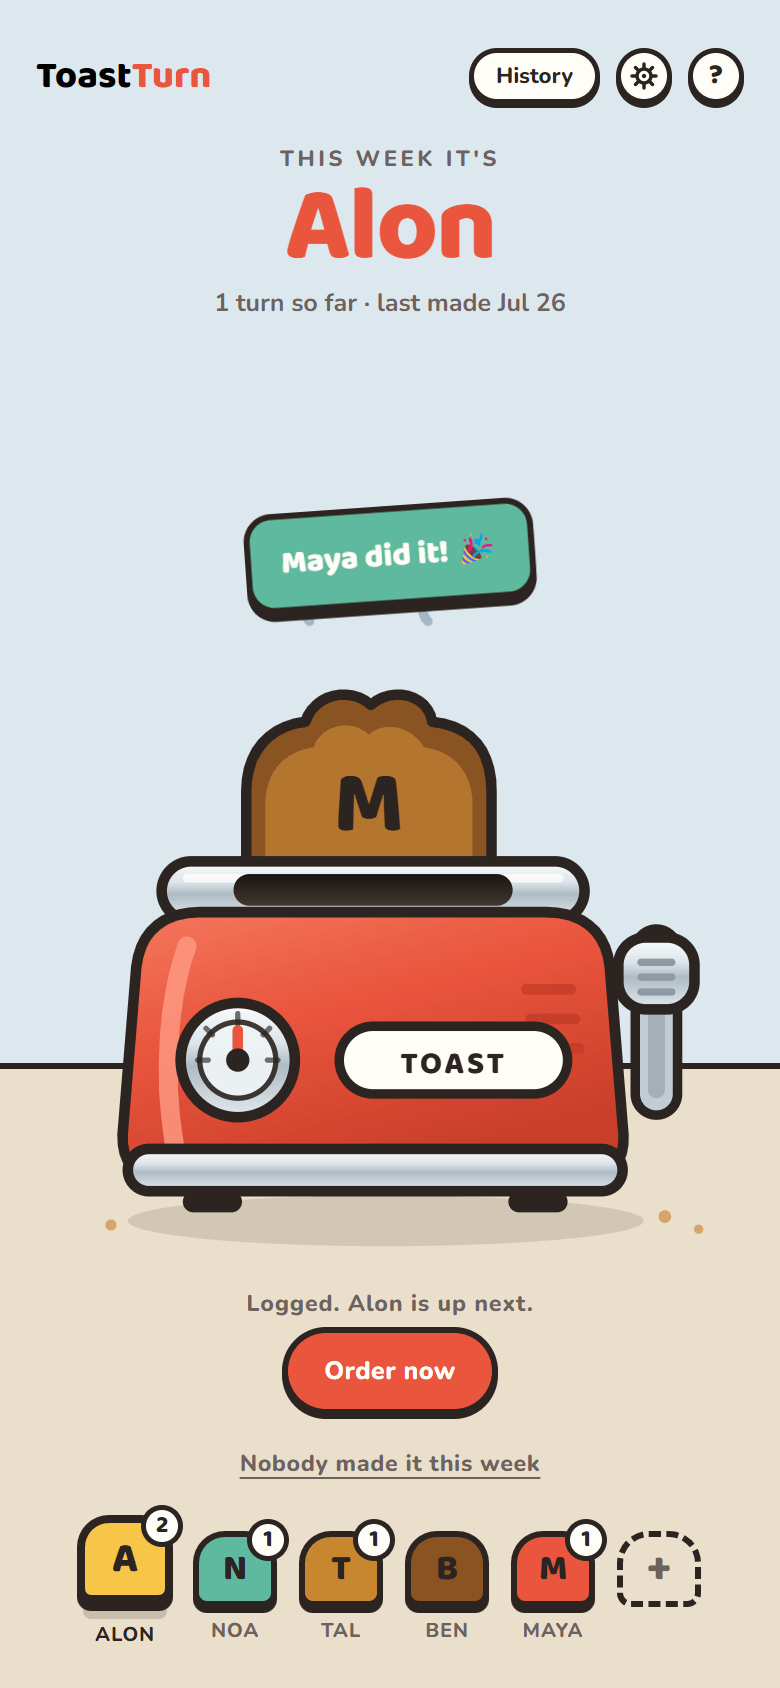
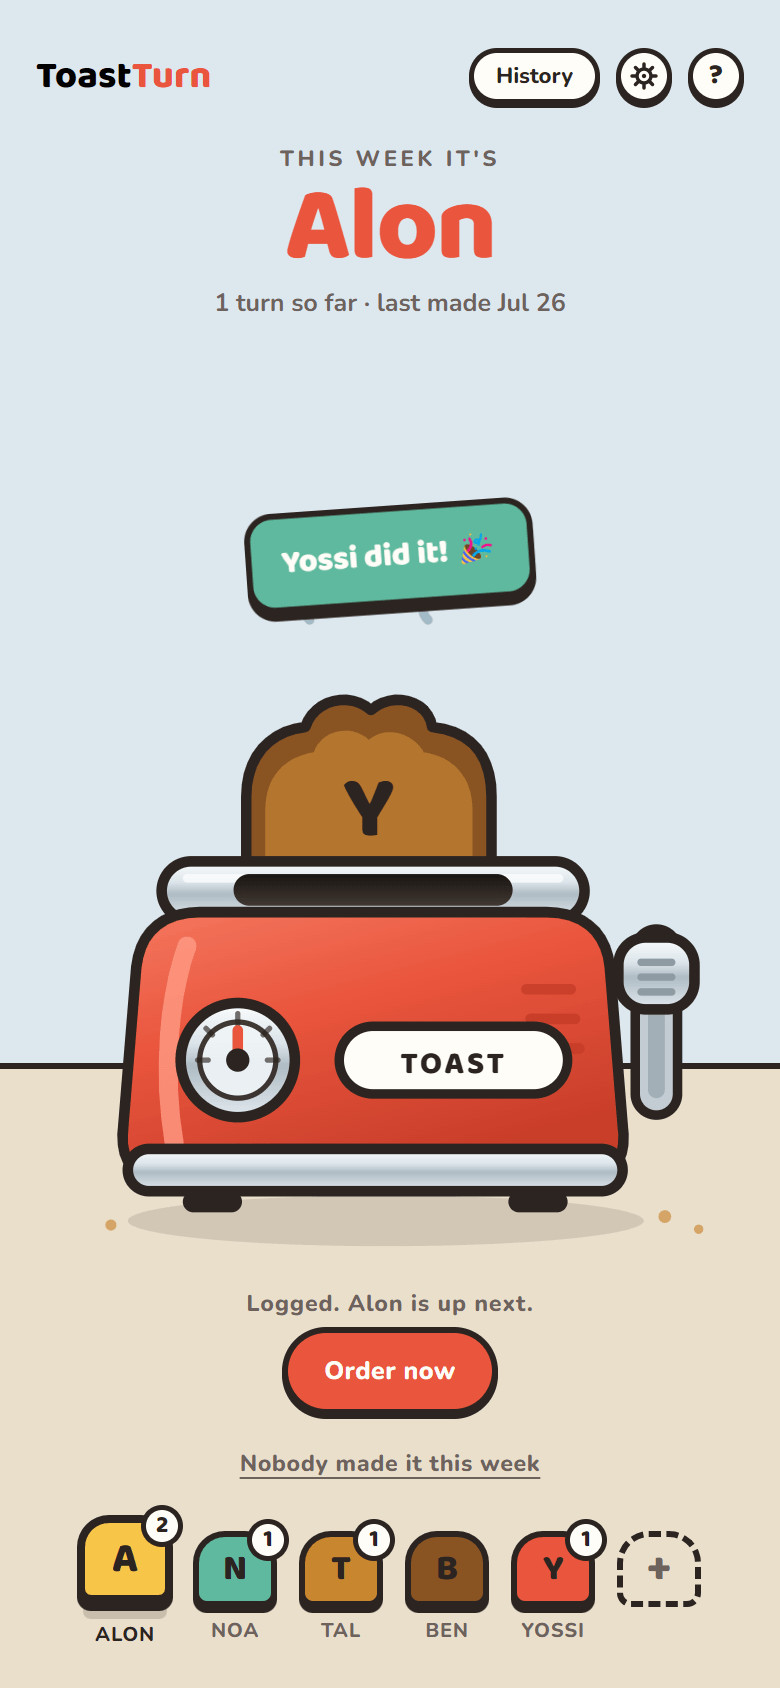
docs: the screenshots are of Yossi's rotation
Renamed the demo family's first person, regenerated every picture, and
followed the name through the README's alt text.

The welcome shot came out as a bare background on the first run: the script
waited for readyState and then a fixed moment, but the app renders nothing at
all until the store has read localStorage and, with keys, until it knows
whether anybody is signed in. It waits for a control to exist now, which is
the thing it actually meant.

diff --git a/README.md b/README.md
@@ -9,8 +9,8 @@ lever and the rotation moves on.
 Built for one family, used on phones, open for about eight seconds at a time.
 
 <p align="center">
-  <img src="docs/screens/home.png" alt="The home screen: this week it's Maya, with the toaster and the queue" width="260">
-  <img src="docs/screens/logged.png" alt="After the lever: Maya did it, and Alon is up next" width="260">
+  <img src="docs/screens/home.png" alt="The home screen: this week it's Yossi, with the toaster and the queue" width="260">
+  <img src="docs/screens/logged.png" alt="After the lever: Yossi did it, and Alon is up next" width="260">
 </p>
 
 ---
